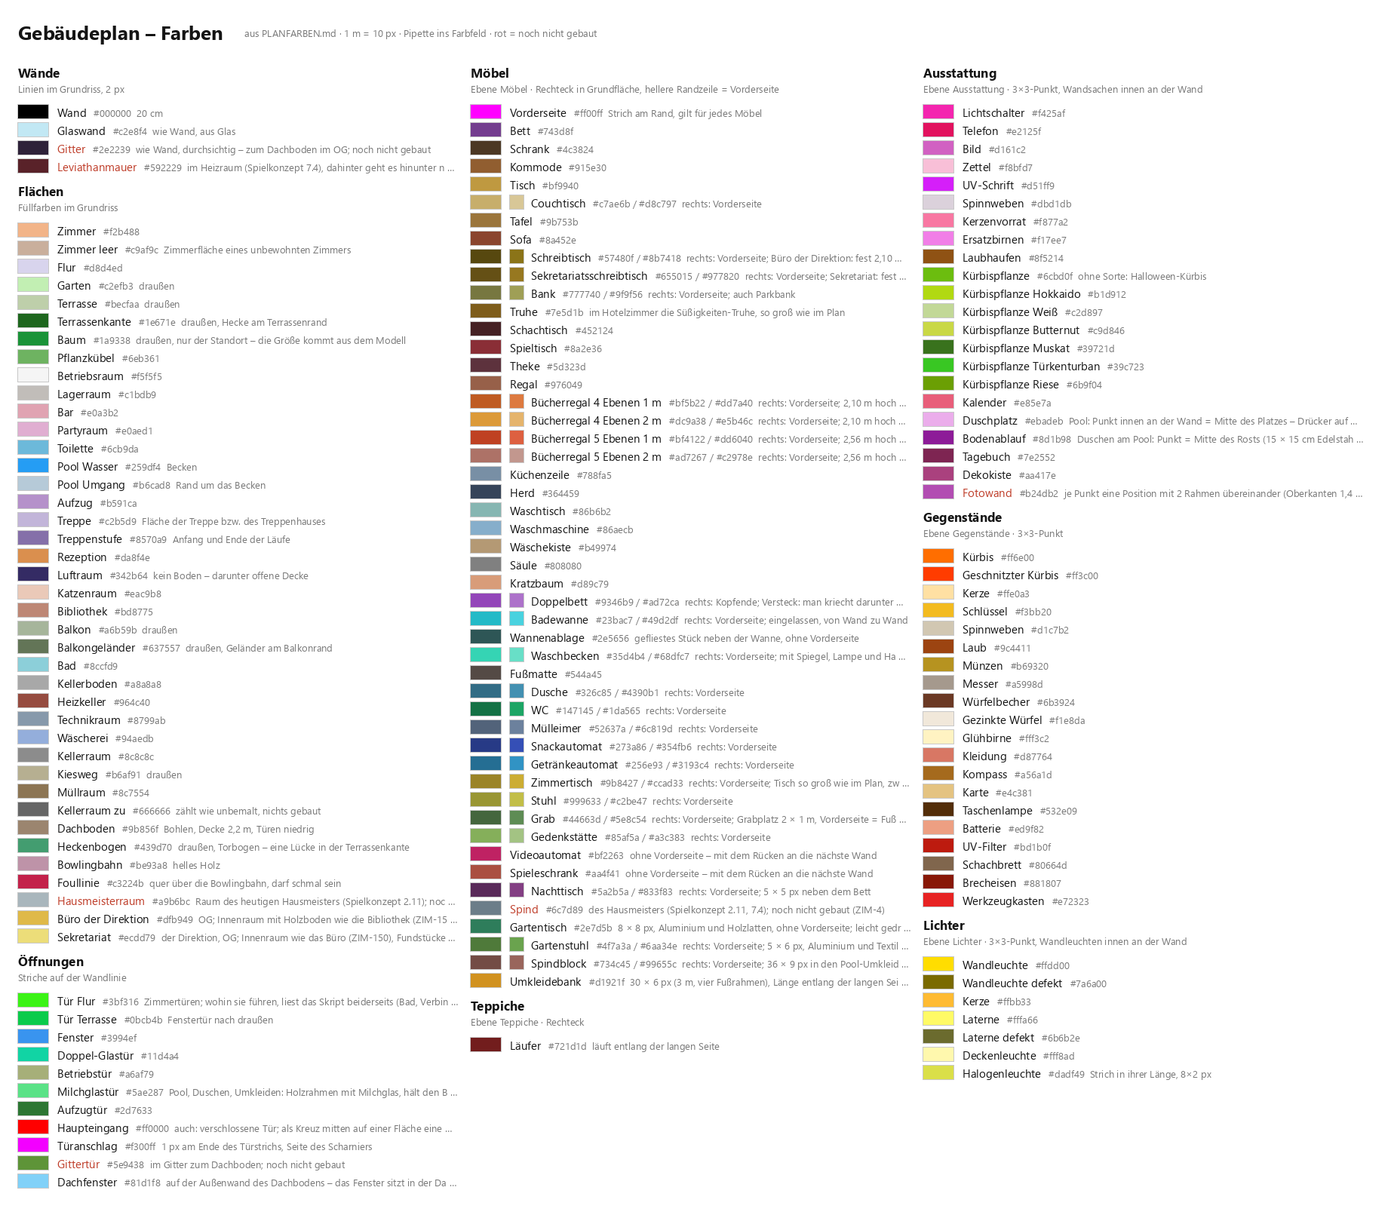
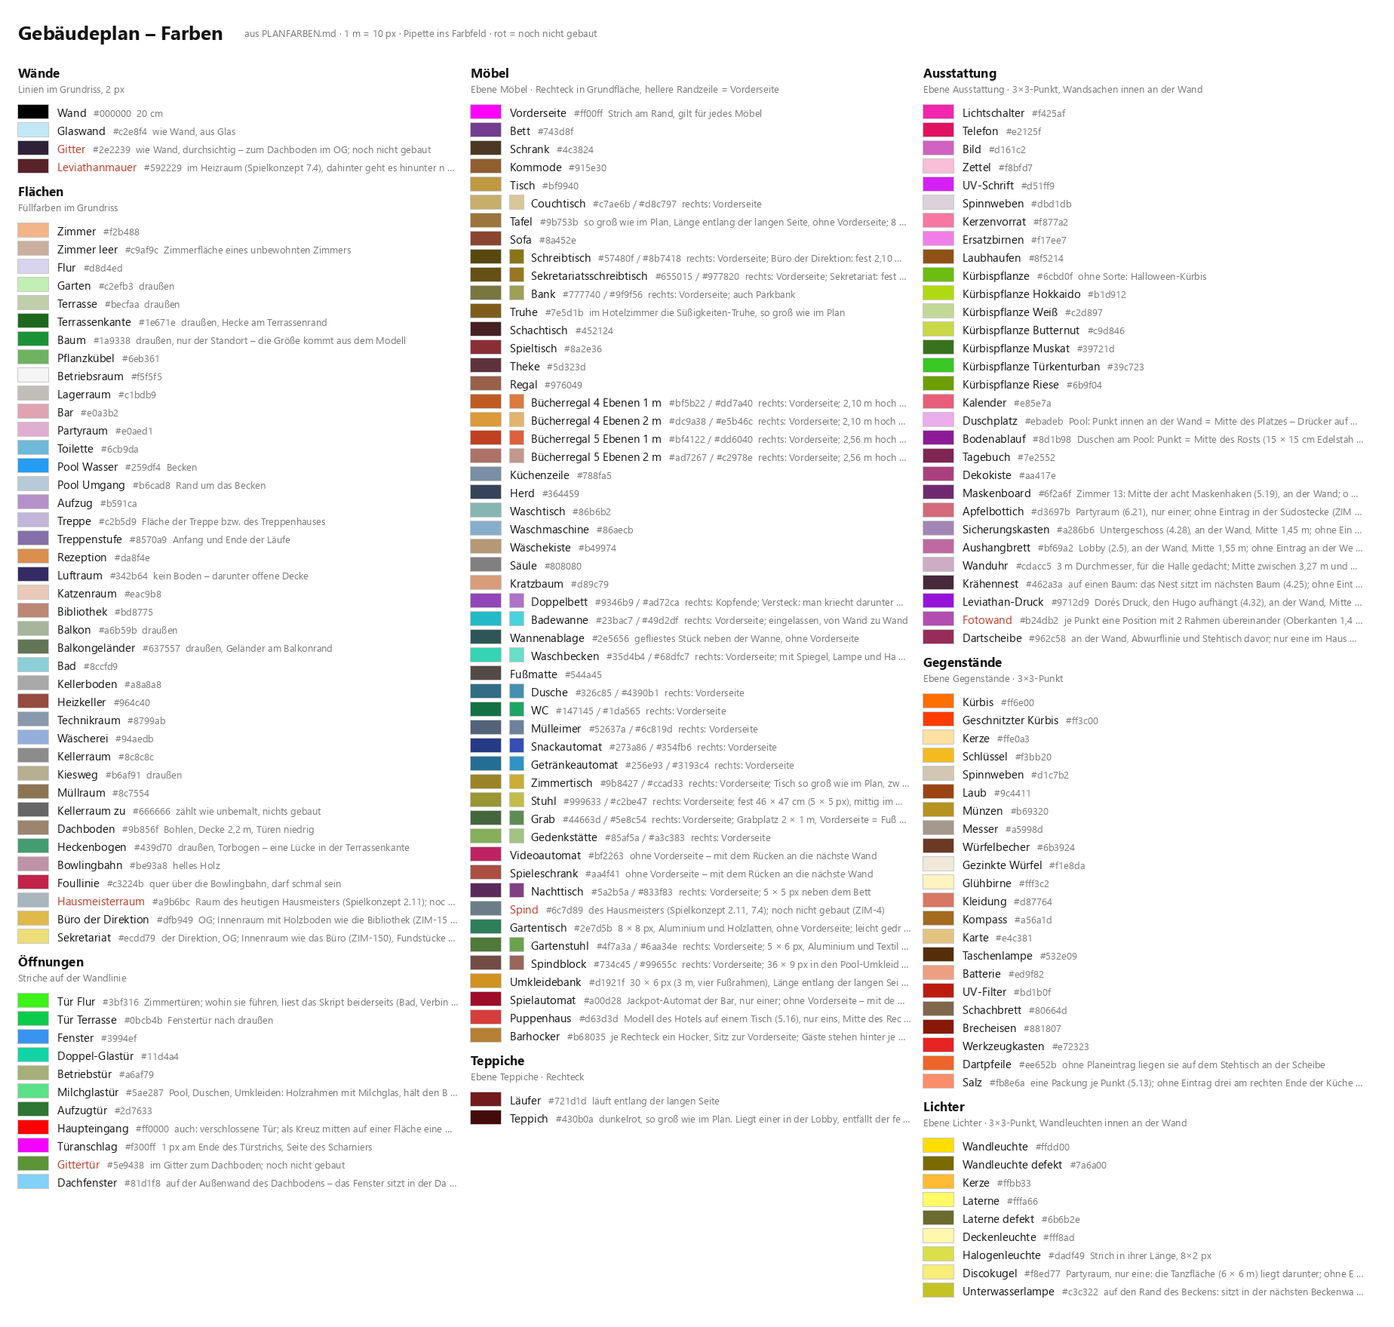
ZIM-158: Feste Plätze im Code lesen jetzt den Plan. Neue Planfarben Möbel „Spielautomat“, „Puppenhaus“, „Barhocker“, Teppich „Teppich“, Ausstattung „Maskenboard“, „Apfelbottich“, „Sicherungskasten“, „Aushangbrett“, „Wanduhr“, „Krähennest“, „Leviathan-Druck“, Gegenstand „Salz“, Licht „Discokugel“ und

Changed region(s): [[0.0, 0.0, 0.9562, 0.9907], [0.401, 0.0, 0.4318, 0.031], [0.1851, 0.0, 0.2159, 0.031]]

diff --git a/tools/plan_recolor.py b/tools/plan_recolor.py
@@ -81,11 +81,12 @@ DESIGN = {
 	"Möbel: Snackautomat": (228, 55, 34), "Möbel: Getränkeautomat": (200, 60, 36), "Möbel: Mülleimer": (215, 20, 40),
 	# Möbel · Spiel und Bar (rot)
 	"Möbel: Theke": (345, 30, 28), "Möbel: Schachtisch": (355, 35, 20), "Möbel: Spieltisch": (355, 50, 36),
-	"Möbel: Videoautomat": (335, 70, 44), "Möbel: Spieleschrank": (8, 45, 46),
+	"Möbel: Videoautomat": (335, 70, 44), "Möbel: Spieleschrank": (8, 45, 46), "Möbel: Spielautomat": (349, 85, 34),
+	"Möbel: Puppenhaus": (0, 65, 54), "Möbel: Barhocker": (35, 55, 46),
 	# Möbel · draußen und Friedhof (grün), Bau (grau)
 	"Möbel: Grab": (110, 25, 32), "Möbel: Gedenkstätte": (90, 35, 52), "Möbel: Säule": (0, 0, 50), "Möbel: Spind": (205, 12, 48),
 	# Teppiche
-	"Teppich: Läufer": (0, 60, 28),
+	"Teppich: Läufer": (0, 60, 28), "Teppich: Teppich": (1, 75, 15),
 	# Ausstattung · an der Wand und im Raum (rosa)
 	"Ausstattung: Lichtschalter": (320, 90, 55), "Ausstattung: Telefon": (338, 85, 48),
 	"Ausstattung: Bild": (308, 55, 60), "Ausstattung: Zettel": (335, 80, 86), "Ausstattung: UV-Schrift": (290, 95, 55),
@@ -94,7 +95,11 @@ DESIGN = {
 	 "Ausstattung: Spinnweben": (300, 12, 84),
 	"Ausstattung: Dekokiste": (325, 45, 46), "Ausstattung: Kerzenvorrat": (340, 90, 72),
 	"Ausstattung: Ersatzbirnen": (305, 80, 72), "Ausstattung: Duschplatz": (300, 60, 80),
-	"Ausstattung: Bodenablauf": (295, 70, 35),
+	"Ausstattung: Bodenablauf": (295, 70, 35), "Ausstattung: Dartscheibe": (335, 55, 38),
+	"Ausstattung: Maskenboard": (300, 45, 30), "Ausstattung: Apfelbottich": (350, 55, 62),
+	"Ausstattung: Sicherungskasten": (275, 25, 62), "Ausstattung: Aushangbrett": (320, 40, 58),
+	"Ausstattung: Wanduhr": (315, 25, 74), "Ausstattung: Krähennest": (325, 25, 22),
+	"Ausstattung: Leviathan-Druck": (280, 85, 46),
 	# Ausstattung · Garten (gelbgrün)
 	"Ausstattung: Kürbispflanze": (88, 85, 40), "Ausstattung: Kürbispflanze Hokkaido": (72, 85, 46),
 	"Ausstattung: Kürbispflanze Weiß": (80, 45, 72), "Ausstattung: Kürbispflanze Butternut": (66, 65, 56),
@@ -108,11 +113,12 @@ DESIGN = {
 	"Gegenstand: Glühbirne": (48, 100, 88), "Gegenstand: Kleidung": (10, 60, 62), "Gegenstand: Kompass": (34, 70, 38),
 	"Gegenstand: Karte": (40, 65, 70), "Gegenstand: Taschenlampe": (30, 80, 18), "Gegenstand: Batterie": (16, 75, 72),
 	"Gegenstand: UV-Filter": (4, 85, 40), "Gegenstand: Schachbrett": (30, 25, 40), "Gegenstand: Brecheisen": (8, 90, 28),
-	"Gegenstand: Werkzeugkasten": (0, 80, 52),
+	"Gegenstand: Werkzeugkasten": (0, 80, 52), "Gegenstand: Dartpfeile": (18, 85, 55), "Gegenstand: Salz": (15, 95, 70),
 	# Lichter (gelb, defekt = dunkler)
 	"Licht: Wandleuchte": (52, 100, 50), "Licht: Wandleuchte defekt": (52, 100, 24), "Licht: Kerze": (40, 100, 60),
 	"Licht: Laterne": (58, 100, 70), "Licht: Laterne defekt": (60, 40, 30), "Licht: Deckenleuchte": (55, 100, 84),
 	"Licht: Halogenleuchte": (62, 70, 58),
+	"Licht: Discokugel": (55, 90, 72), "Licht: Unterwasserlampe": (60, 70, 45),
 }
 
 

diff --git a/tools/build_map.py b/tools/build_map.py
@@ -132,6 +132,8 @@ FURNITURE = {
 	"Möbel: Gartentisch": "garden_table", "Möbel: Gartenstuhl": "garden_chair",
 	# Pool-Umkleiden (31.10., ZIM-145): Spindblock 36 × 9 px mit hellerer Zeile, Bank in der Mitte ohne Vorderseite
 	"Möbel: Spindblock": "locker_bank", "Möbel: Umkleidebank": "changing_bench",
+	# 2.11.: bisher feste Plätze im Code (ZIM-158) – ohne Planeintrag bleibt der alte Platz
+	"Möbel: Spielautomat": "slot_machine", "Möbel: Puppenhaus": "doll_house", "Möbel: Barhocker": "bar_stool",
 }
 FRONT_NAME = "Möbel: Vorderseite"   ## Strich am Rand, gilt für jedes Möbel
 ## Hellere Zeile am Rand, gilt nur für ihr Möbel: „Möbel: Dusche Vorderseite“ → facing. Beim Doppelbett ist sie das
@@ -150,9 +152,14 @@ FITTINGS = {
 	"Ausstattung: Dartscheibe": "dartboard",   # 25.10.: an der Wand, Linie und Stehtisch davor (6.10)
 	"Ausstattung: Duschplatz": "pool_shower",   # 1.11.: Drücker, Ablage und Duschkopf an der Wand (ZIM-144)
 	"Ausstattung: Bodenablauf": "floor_drain",   # 1.11.: Edelstahlrost im Boden der Duschen am Pool (ZIM-144)
+	# 2.11.: bisher feste Plätze im Code (ZIM-158) – ohne Planeintrag bleibt der alte Platz
+	"Ausstattung: Maskenboard": "mask_board", "Ausstattung: Apfelbottich": "apple_tub",
+	"Ausstattung: Sicherungskasten": "fuse_box", "Ausstattung: Aushangbrett": "notice_board",
+	"Ausstattung: Wanduhr": "wall_clock", "Ausstattung: Krähennest": "crow_nest",
+	"Ausstattung: Leviathan-Druck": "leviathan_print",
 }
 ## Teppiche → Art (LevelBuilder.RUG_TEXTURES)
-RUGS = {"Teppich: Läufer": "runner"}
+RUGS = {"Teppich: Läufer": "runner", "Teppich: Teppich": "rug"}   # Teppich: 2.11. (ZIM-158)
 ## Gegenstände → Item.Kind
 ITEMS = {
 	"Gegenstand: Kürbis": "PUMPKIN", "Gegenstand: Geschnitzter Kürbis": "CARVED_PUMPKIN", "Gegenstand: Kerze": "CANDLE",
@@ -164,12 +171,15 @@ ITEMS = {
 	# 24.10. (Spielkonzept 6.19): Zimmertüren aufbrechen und reparieren
 	"Gegenstand: Brecheisen": "CROWBAR", "Gegenstand: Werkzeugkasten": "TOOLBOX",
 	"Gegenstand: Dartpfeile": "DARTS",   # 25.10. (6.10) – ohne Eintrag liegen sie auf dem Stehtisch an der Scheibe
+	"Gegenstand: Salz": "SALT",   # 2.11. (5.13, ZIM-158) – ohne Eintrag 3 Packungen am Ende der Küchenzeile
 }
 ## Lichter → (Art, defekt)
 LIGHTS = {
 	"Licht: Wandleuchte": ("wall_lamp", False), "Licht: Wandleuchte defekt": ("wall_lamp", True),
 	"Licht: Kerze": ("candle", False), "Licht: Laterne": ("lantern", False), "Licht: Laterne defekt": ("lantern", True),
 	"Licht: Deckenleuchte": ("ceiling_lamp", False), "Licht: Halogenleuchte": ("halogen", False),
+	# 2.11. (ZIM-158): ohne Eintrag Discokugel mitten im Partyraum, Unterwasserlampen gleichmäßig verteilt
+	"Licht: Discokugel": ("disco_ball", False), "Licht: Unterwasserlampe": ("pool_lamp", False),
 }
 ## Einbauten, die keine eigenen Bodenflächen sind
 FIXTURES = ("tree", "planter", "reception", "terrace_edge", "balcony_edge", "stairs", "void", "hedge_arch")

diff --git a/PLANFARBEN.md b/PLANFARBEN.md
@@ -180,6 +180,9 @@ Ebene `Möbel`, Rechteck in der Grundfläche. Vorderseite = Randzeile in der hel
 | #4f7a3a | Gartenstuhl | #6aa34e | 5 × 6 px, Aluminium und Textilgewebe, einzeln gesetzt; leicht gedreht und versetzt |
 | #734c45 | Spindblock | #99655c | 36 × 9 px in den Pool-Umkleiden: Sockel mit Sitzfläche vorn, 12 Spinde (6 × 2) und rechts ein Regal 3 × 2; Rücken zur Wand. Nummern fortlaufend, Blöcke von West nach Ost, im Raum „links unten“ zuerst (ZIM-145) |
 | #d1921f | Umkleidebank | | 30 × 6 px (3 m, vier Fußrahmen), Länge entlang der langen Seite, ohne Vorderseite; Gestell anthrazit, Holzlatten, Sitzen von beiden Seiten |
+| #a00d28 | Spielautomat | | Jackpot-Automat der Bar, nur einer; ohne Vorderseite – mit dem Rücken an die nächste Wand. Ohne Eintrag an der Bar-Nordwand (ZIM-158) |
+| #d63d3d | Puppenhaus | | Modell des Hotels auf einem Tisch (5.16), nur eins, Mitte des Rechtecks; Pläne mit Norden oben, ist das Rechteck in z länger, quer gedreht. Ohne Eintrag mitten in der Bibliothek im OG (ZIM-158) |
+| #b68035 | Barhocker | | je Rechteck ein Hocker, Sitz zur Vorderseite; Gäste stehen hinter je zwei benachbarten. Stehen welche in der Bar, setzt der Code keine 6 mehr vor die Theke (ZIM-158) |
 
 ## Teppiche
 
@@ -188,6 +191,7 @@ Ebene `Teppiche`, Rechteck (eigene Ebene, damit sie unter Möbeln liegen können
 | Farbe | Name | Vorderseite | Hinweis |
 |---|---|---|---|
 | #721d1d | Läufer | | läuft entlang der langen Seite |
+| #430b0a | Teppich | | dunkelrot, so groß wie im Plan. Liegt einer in der Lobby, entfällt der feste vor der Rezeption (6 × 8 m, ZIM-158) |
 
 ## Ausstattung
 
@@ -216,8 +220,15 @@ Ebene `Ausstattung`, 3×3-Punkt, Wandsachen innen an der Wand.
 | #8d1b98 | Bodenablauf | Duschen am Pool: Punkt = Mitte des Rosts (15 × 15 cm Edelstahl), am besten in der Raummitte (ZIM-144) |
 | #7e2552 | Tagebuch | |
 | #aa417e | Dekokiste | |
+| #6f2a6f | Maskenboard | Zimmer 13: Mitte der acht Maskenhaken (5.19), an der Wand; ohne Eintrag an der längsten freien Wand (ZIM-158) |
+| #d3697b | Apfelbottich | Partyraum (6.21), nur einer; ohne Eintrag in der Südostecke (ZIM-158) |
+| #a286b6 | Sicherungskasten | Untergeschoss (4.28), an der Wand, Mitte 1,45 m; ohne Eintrag an der Nordwand des Maschinenraums (ZIM-158) |
+| #bf69a2 | Aushangbrett | Lobby (2.5), an der Wand, Mitte 1,55 m; ohne Eintrag an der Westwand (ZIM-158) |
+| #cdacc5 | Wanduhr | 3 m Durchmesser, für die Halle gedacht; Mitte zwischen 3,27 m und der Decke (unter dem Luftraum die der Halle). Ohne Eintrag über dem Haupteingang (ZIM-158) |
+| #462a3a | Krähennest | auf einen Baum: das Nest sitzt im nächsten Baum (4.25); ohne Eintrag im Baum gegenüber der Gartentür von 042 (ZIM-158) |
+| #9712d9 | Leviathan-Druck | Dorés Druck, den Hugo aufhängt (4.32), an der Wand, Mitte 1,72 m; ohne Eintrag an der Lobby-Westwand südlich der Fotowand (ZIM-158) |
 | #b24db2 | Fotowand | je Punkt eine Position mit 2 Rahmen übereinander (Oberkanten 1,40 m und 1,90 m), Punkte im 1-m-Abstand; noch nicht gebaut (ZIM-133) |
-| – | Dartscheibe | im Code vorgesehen; ohne Planeintrag hängt sie hinten in der Nische der Bar |
+| #962c58 | Dartscheibe | an der Wand, Abwurflinie und Stehtisch davor; nur eine im Haus – ohne Planeintrag hängt sie hinten in der Nische der Bar |
 
 ## Gegenstände
 
@@ -245,7 +256,8 @@ Ebene `Gegenstände`, 3×3-Punkt.
 | #80664d | Schachbrett | |
 | #881807 | Brecheisen | |
 | #e72323 | Werkzeugkasten | |
-| – | Dartpfeile | im Code vorgesehen; ohne Planeintrag liegen sie auf dem Stehtisch an der Scheibe |
+| #ee652b | Dartpfeile | ohne Planeintrag liegen sie auf dem Stehtisch an der Scheibe |
+| #fb8e6a | Salz | eine Packung je Punkt (5.13); ohne Eintrag drei am rechten Ende der Küchenzeile |
 
 ## Lichter
 
@@ -260,6 +272,8 @@ Ebene `Lichter`, 3×3-Punkt, Wandleuchten innen an der Wand. Defekt = gleiche Le
 | #6b6b2e | Laterne defekt | |
 | #fff8ad | Deckenleuchte | |
 | #dadf49 | Halogenleuchte | Strich in ihrer Länge, 8×2 px |
+| #f8ed77 | Discokugel | Partyraum, nur eine: die Tanzfläche (6 × 6 m) liegt darunter; ohne Eintrag in der Raummitte (ZIM-158) |
+| #c3c322 | Unterwasserlampe | auf den Rand des Beckens: sitzt in der nächsten Beckenwand. Steht eine im Plan, setzt der Code keine eigenen (sonst 2 je Längswand, ZIM-158) |
 
 ## Im Plan, aber ohne Bedeutung
 
@@ -267,53 +281,57 @@ Farben, die `build_map.py` im Plan findet, aber nicht kennt – es meldet sie mi
 
 ## Im Code gesetzt, nicht im Plan
 
-Stand 31.10. Ziel: Was einen Platz hat, setzt der Zeichner in den Plan; der Code baut nur noch, was dort steht.
+Stand 2.11. Ziel: Was einen Platz hat, setzt der Zeichner in den Plan; der Code baut nur noch, was dort steht.
 Koordinaten in Metern (x Ost, z Süd, Ursprung Mitte Haupteingang).
 
 ### Ersatzplätze – sollen in den Plan
 
-Der Code setzt sie an einen festen Platz, bis es einen Planeintrag gibt.
+Die Farbe gibt es, der Code liest sie (seit 2.11. auch die aus ZIM-158). Solange nichts gemalt ist, setzt er das Ding an
+den alten festen Platz – gemalt, wandert es dorthin.
 
-| Objekt | Jetzt | Planeintrag | Stand |
+| Objekt | Ohne Planeintrag | Planeintrag | Stand |
 |---|---|---|---|
-| Fotowand | Lobby-Westwand (`photo_wall.gd` WALL) | Ausstattung: Fotowand #b24db2 | im Plan gemalt, Bau offen (ZIM-133) |
-| Dartscheibe mit Linie und Stehtisch | Nische an der Südwand der Bar (`DART_FALLBACK`) | Ausstattung: Dartscheibe | ohne Farbe – **Ersatzplatz aktiv** |
-| Dartpfeile | auf dem Stehtisch an der Scheibe | Gegenstand: Dartpfeile | ohne Farbe – Ersatzplatz aktiv |
-| Jackpot-Automat | Bar-Nordwand nördlich der Glastür (`SLOT_FALLBACK`) | fehlt (Möbel: Spielautomat?) | immer aus dem Code |
+| Fotowand | Lobby-Westwand (`photo_wall.gd` WALL) | Ausstattung: Fotowand | im Plan gemalt, Bau offen (ZIM-133) |
+| Dartscheibe mit Linie und Stehtisch | Nische an der Südwand der Bar (`DART_FALLBACK`) | Ausstattung: Dartscheibe | **Ersatzplatz aktiv** |
+| Dartpfeile | auf dem Stehtisch an der Scheibe | Gegenstand: Dartpfeile | Ersatzplatz aktiv |
+| Jackpot-Automat | Bar-Nordwand nördlich der Glastür (`SLOT_FALLBACK`) | Möbel: Spielautomat | Ersatzplatz aktiv |
 | Spieleschrank | Bar-Ostwand (`CABINET_FALLBACK`) | Möbel: Spieleschrank | steht im Plan – Ersatz greift nicht |
-| Maskensammlung (Haken, künftig Board 4 × 2) | längste freie Wand in Zimmer 13 | fehlt | ZIM-128 |
-| Apfelbottich | Südostecke Partyraum (`apple_tub.gd` SPOT) | fehlt (Ausstattung: Apfelbottich) | ZIM-84 |
-| Puppenhaus | Mitte der Bibliothek im OG (`doll_house.gd` SPOT) | fehlt (Möbel: Puppenhaus) | ZIM-84 |
-| Rattenkönig | Wandbord Nordwand Müllraum UG (`rat_king.gd`) | fehlt (Ausstattung: Rattenkönig) | ZIM-84, ruht |
-| Sicherungskasten | Nordwand Maschinenraum UG (`power_cut.gd`) | fehlt (Ausstattung: Sicherungskasten) | |
-| Salz (3 Packungen) | rechtes Ende der Küchenzeile | fehlt (Gegenstand: Salz) | |
+| Maskensammlung (8 Haken) | längste freie Wand in Zimmer 13 | Ausstattung: Maskenboard | Ersatzplatz aktiv; Board 4 × 2 in ZIM-128 |
+| Apfelbottich | Südostecke Partyraum (`apple_tub.gd` SPOT) | Ausstattung: Apfelbottich | Ersatzplatz aktiv |
+| Puppenhaus | Mitte der Bibliothek im OG (`doll_house.gd` SPOT) | Möbel: Puppenhaus | Ersatzplatz aktiv |
+| Rattenkönig | Wandbord Nordwand Müllraum UG (`rat_king.gd`) | fehlt | ZIM-84, ruht |
+| Sicherungskasten | Nordwand Maschinenraum UG (`power_cut.gd` FUSE_FALLBACK) | Ausstattung: Sicherungskasten | Ersatzplatz aktiv |
+| Salz (3 Packungen) | rechtes Ende der Küchenzeile | Gegenstand: Salz | Ersatzplatz aktiv |
+| Teppich vor der Rezeption | fest 6 × 8 m bei (0, −5) | Teppich: Teppich (in der Lobby) | Ersatzplatz aktiv |
+| Aushangbrett | Lobby-Westwand, z −16,6 | Ausstattung: Aushangbrett | Ersatzplatz aktiv |
+| Leviathan-Druck (Doré) | Lobby-Westwand südlich der Fotowand (`leviathan_name.gd` PRINT_AT) | Ausstattung: Leviathan-Druck | Ersatzplatz aktiv – neben die Fotowand malen |
+| Wanduhr | über dem Haupteingang | Ausstattung: Wanduhr | Ersatzplatz aktiv |
+| Krähennest | im Baum gegenüber der Gartentür von Zimmer 042 | Ausstattung: Krähennest | Ersatzplatz aktiv |
+| Barhocker | 6 vor der Theke | Möbel: Barhocker | Ersatzplatz aktiv |
+| Discokugel und Tanzfläche | Mitte des Partyraums | Licht: Discokugel | Ersatzplatz aktiv |
+| Unterwasserlampen | 2 je Längswand, gleichmäßig verteilt | Licht: Unterwasserlampe | Ersatzplatz aktiv |
+| Waschmaschinen der Wäscherei | 12 je Längswand | Möbel: Waschmaschine | Ersatzplatz aktiv |
 | Futtertisch der Krähen | der Tisch draußen nächst der Gartentür von 13 (bis 12 m); Ersatz nur im Debug | Möbel: Tisch im Gärtchen | ZIM-51 |
 | Leuchten im Treppenhaus Ost | Podeste EG/OG, wenn der Plan dort keine Wandleuchte hat; UG-Podest immer | Licht: Wandleuchte | |
 | Fester Schubladenfund (Zimmer 022) | erste Kommode, sonst erster Tisch | Möbel: Kommode im Zimmer | |
 | Notizbuch des Hausmeisters (Zimmer 18), Gustavs Tagebuch | auf dem Zimmertisch, ohne Tisch am Boden in der Mitte | Möbel: Zimmertisch | |
 
-### Fest im Code – Kandidaten für den Plan
+### Bleibt im Code
 
-Feste Koordinaten oder Regeln ohne Planeintrag. Was hier einen eigenen Ort hat, könnte eine Farbe bekommen.
+Feste Koordinaten oder Regeln ohne Planeintrag – bewusst (2.11., ZIM-158): Sie hängen an der Geschichte, wandern
+oder richten sich nach Fläche und Möbeln.
 
 | Objekt | Jetzt |
 |---|---|
-| Teppich vor der Rezeption | fest 6 × 8 m bei (0, −5) – Teppich-Ebene kennt bisher nur den Läufer |
-| Wegweiser BAR, PARTY, GARTEN, POOL | Lobbywände, feste Höhe und Lage |
-| Aushangbrett | Lobby-Westwand, z −16,6 |
-| Leviathan-Druck (Doré) | Lobby-Westwand südlich der Fotowand (`leviathan_name.gd` PRINT_AT) – muss mit der Fotowand mitwandern |
 | Vogelscheuche | wandert je Spieltag von hinten im Garten (−3, −73) bis vor die Gartentür der Lobby (−5,5, −30,4) |
-| Waschmaschinen der Wäscherei | 12 je Längswand – obwohl „Möbel: Waschmaschine“ in der Legende steht |
 | Heizkeller-Einrichtung | alles relativ zur Fläche: Kessel Mitte Ostwand, 3 Kisten Südwand, Regal Westwand, Schlüssel 18, Münzen, Batterie, Spieluhr, Zettel 2011, UV-Schrift 1987, Spinnweben, Deko, kaputte Leuchte, Schalter, Rohre |
-| Hotelregister | auf der Rezeption, Mitte der Kundenseite |
-| Wanduhr, Schild AUSGANG | über dem Haupteingang |
-| Barausstattung | Flaschen im Regal, 6 Barhocker, Zapfstelle, Dosen, Kaffee/Tee auf der Theke, Getränkekisten vor dem Regal in Kühlraum und Lager |
-| Partyraum | Tanzfläche 6 × 6 m und Discokugel in der Mitte, Partylampen, dunkle Ecke im Nordwesten, Plattenspieler auf dem ersten Tisch |
+| Hotelregister, Tischklingel | auf der Rezeption, an der Kundenseite |
+| Barausstattung | Flaschen im Regal, Zapfstelle, Dosen, Kaffee/Tee auf der Theke, Getränkekisten vor dem Regal in Kühlraum und Lager |
+| Partyraum | Partylampen, dunkle Ecke im Nordwesten, Plattenspieler auf dem ersten Tisch |
 | Küchenzeile | Kaffeemaschine, Wasserkocher, Brotkrumen, Eierkarton |
-| Pool | Einstiegstreppen West/Ost, 4 Unterwasserlampen je Seite |
+| Pool | Einstiegstreppen West/Ost |
 | Zimmer 13 | Laken auf dem Bett, Warnzettel 1999 hinter der Tür, Spielerstart in der Mitte |
 | Zimmer 18 | Notizbuch, Schaltschlüssel, UV-Aufsatz auf dem Tisch |
-| Krähennest | im Baum gegenüber der Gartentür von Zimmer 042 |
 | Monster-Startpunkte | Heizkeller, Zimmer 017, Garten |
 
 Ohne festen Ort (wandern oder erscheinen zufällig): Gäste, Hotelkatzen, Kind zu viel, Kürbismann, Ratten, Spinnen,

diff --git a/TECHNIK.md b/TECHNIK.md
@@ -767,7 +767,7 @@ vom Fingerabdruck abgelehnt, zu tun ist nichts.
     Haltestelle, s. u.); die Reparatur (Spielkonzept 7.4) fehlt.
 - **Pool** (`_pool`): Becken mit Fototextur-Fliesen, Einstiegstreppen (`_flight(…, step_h)` – Stufen auf dem
   Fliesenraster), Handlauf `HANDRAIL_MODEL`. Darüber die Holzdecke (dicht auch gegen Regen). **Unterwasserlampen**
-  (`Lamp.Style.POOL`, nicht im Plan, ohne Birne – `has_socket()` falsch, Gäste klauen nichts) laufen durch den
+  (`Lamp.Style.POOL`, „Licht: Unterwasserlampe“ in der nächsten Beckenwand, sonst `POOL_LAMPS_PER_SIDE` je Längswand; ohne Birne – `has_socket()` falsch, Gäste klauen nichts) laufen durch den
   Regenbogen. **Wasser** = `PoolWater` (`world/pool_water.gd`, `shaders/psx_water.gdshader`): Wellen rein optisch im
   Vertex-Shader; Wellenringe im Array `ripples` (`MAX_RIPPLES` – **Shader-Konstante gleich halten**), Abprall als
   Spiegelquellen hinter den Wänden; `_track()` erzeugt Ringe für Spieler und Monster, `splash()` beim Eintauchen;
@@ -846,7 +846,13 @@ Warnungen erscheinen als `push_warning` „build_map: …“; schlägt es fehl, 
   Markdown-Tabelle (Farbe, Name, Vorderseite, Hinweis), die Überschrift gibt den Vorsatz („## Möbel“ → `Möbel: …`);
   „–“ statt Farbe = im Code vorgesehen, noch ohne Farbe. Gelesen über `tools/plan_legend.py` (prüft doppelte Farben
   und Namen); dort stehen auch die Regeln des Plans und der **Bestand**, was der Code selbst setzt (Ersatzplätze,
-  feste Orte, Regeln). Die Zuordnung Name → Bauteil bleibt in `FILLS`, `OPENINGS`, `FURNITURE` … oben in
+  feste Orte, Regeln). **Planplätze statt fester Orte** (ZIM-158): Was der Code sonst an eine feste Stelle setzt,
+  merkt sich der LevelBuilder beim Bau aus dem Plan in `planned` (Art → `{level, pos, out, rect, at}`; `_plan`,
+  `_plan_wall` für Wandsachen, `PLANNED_ONCE` = nur der erste Punkt gilt). Im Builder fragt `_planned_here(kind, area)`,
+  von außen `planned_at(kind, fallback, y, gap)` (Transform, +Z in den Raum) – ohne Planeintrag gilt der alte feste
+  Platz. So: Spielautomat, Puppenhaus, Barhocker, Maskenboard, Apfelbottich, Sicherungskasten, Aushangbrett, Wanduhr,
+  Krähennest, Leviathan-Druck, Teppich, Discokugel (Tanzfläche darunter), Unterwasserlampen, Waschmaschinen.
+  Die Zuordnung Name → Bauteil bleibt in `FILLS`, `OPENINGS`, `FURNITURE` … oben in
   `build_map.py`. **Nicht in der Plandatei**: Aseprite behält keine Palettennamen. Neue Farbe → Zeile in
   `PLANFARBEN.md`, dann `python tools/build_colors.py`: zeichnet `map_colors.png` (Vorlage mit exakten Farben für die
   Pipette, rot = noch nicht gebaut), schreibt `map_a.gpl` (Palette für Aseprite, nicht von Hand ändern) und meldet
@@ -2178,8 +2184,9 @@ Je ein Knoten unter `main` (eingehängt in `main._ready()`, Referenz in `Game`),
 - `PUMPKIN_SEEDS` (Kürbiskerne, 5.4): Schnitzt der Spieler (`Item.interact` → `carve`), legt `_drop_seeds` eine Handvoll
   neben den Kürbis, auf seine Seite – Gäste schnitzen ohne Kerne. Tasche; Krähenfutter (4.25). Mit Zusatz „brot“
   (`flavor`) sind es Brotkrumen – Vorrat `ResourceSpot` mit `with_extra("brot")` auf der Küchenzeile (`BREAD_OFFSET`).
-- **Ausstattung im Plan fehlt noch** für Rattenkönig, Fotowand, Puppenhaus, Apfelbottich – bis dahin
-  feste Ausweichplätze (`FALLBACK`/`WALL`/`SPOT`) im jeweiligen Skript.
+- **Ort aus dem Plan** (ZIM-158): Puppenhaus, Apfelbottich, Sicherungskasten, Krähennest über
+  `LevelBuilder.planned_at`, sonst feste Ausweichplätze (`FALLBACK`/`SPOT`) im jeweiligen Skript. Ohne Planfarbe
+  noch Rattenkönig (ruht) und Fotowand (`WALL`, ZIM-133).
 - **Gespeichert** (Speicherstand 49) unter `omens`: `crows`, `mirrors`, `power`, `nightmare`, `extra_child`
   (`SaveManager._collect_omens`/`_apply_omens`); alles andere wird aus Toten, Kalender oder Gegenständen abgeleitet.
 - Debug: `--kraehen`, `--ratten`, `--hund`, `--kesselkatze`, `--spiegel`, `--strom`, `--albtraum`,
@@ -2320,7 +2327,7 @@ es verschwindet), Herbstlaub je Baum (unter `world`, nicht `root` – das NavMes
   in `SYMBOLS`, `payout`; Erwartungswert ≈ 0,69 je Geld; läuft alle 4–10 min von selbst an, wenn niemand davorsteht –
   Gruppe `time_skip`; Lärm `slot`/`slot_win`). Spieleschrank aus dem Plan (Möbel „Spieleschrank“,
   ohne Vorderseite: `_back_to_wall` stellt ihn mit dem Rücken an die nächste Wand), sonst `CABINET_FALLBACK`; der
-  Jackpot-Automat steht an `SLOT_FALLBACK` (Ecke oben rechts in der Bar). **Videoautomaten** `ArcadeMachine` (Möbel
+  Jackpot-Automat ebenso aus „Spielautomat“, sonst an `SLOT_FALLBACK` (Ecke oben rechts in der Bar). **Videoautomaten** `ArcadeMachine` (Möbel
   „Videoautomat“, der Reihe nach `ARCADE_GAMES`: Deadra, Ghost Hotel – eigene Entwürfe statt Tetris und Pac-Man):
   Gehäuse = `arcade_machine.glb` (Tabelle in 1), Bildschirm = kleines `Image` (`SCREEN_PX`) auf der gewölbten
   Röhre des Modells (`shaders/arcade_screen.gdshader`: Bild in `PICTURE_RECT` der UVs, Zeilen, außen schwarzes Glas),
